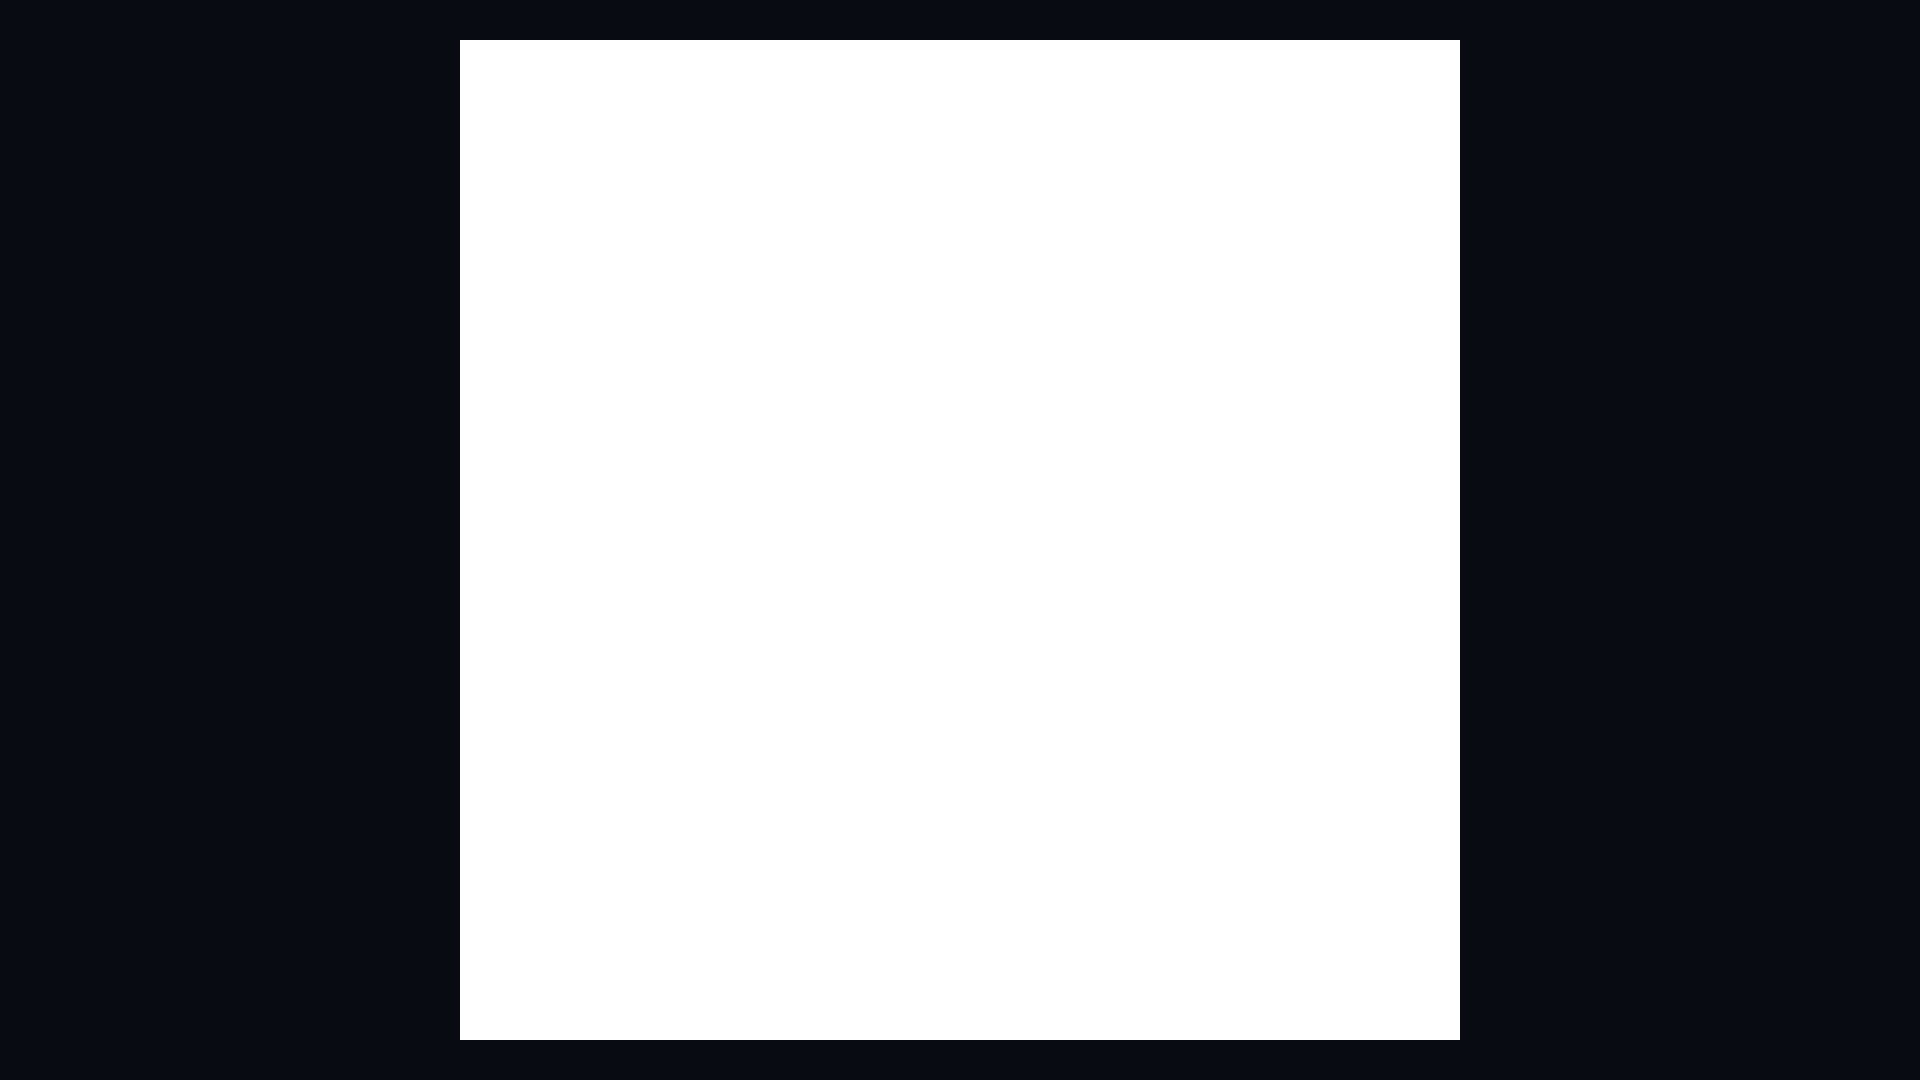
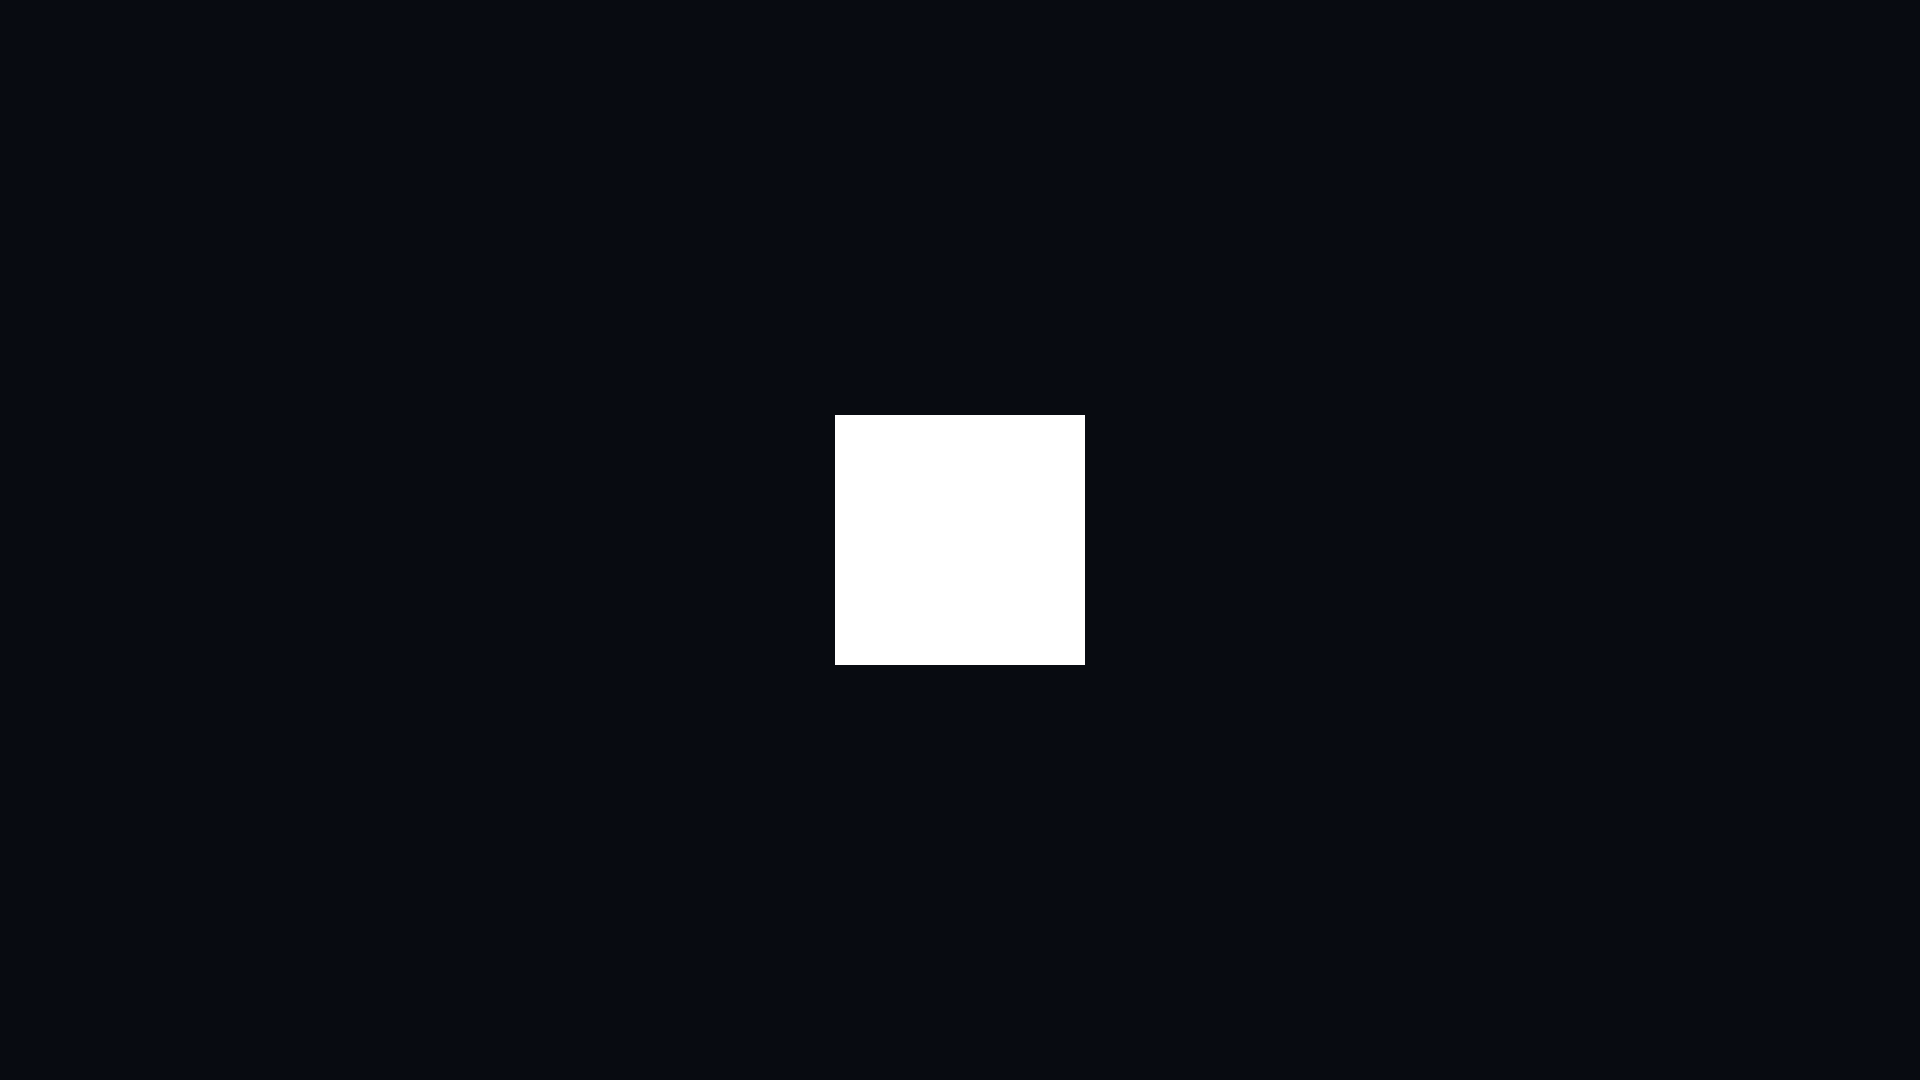
[WIP]

diff --git a/src/fortnite/click-hole.sample.js b/src/fortnite/click-hole.sample.js
@@ -4,8 +4,8 @@ const images = [
     url: 'https://raw.githubusercontent.com/Dixper/dixper-sdk-plugin-samples/main/src/games/assets/CIRCULO_00021.png',
   },
   {
-    name: 'transparent',
-    url: 'https://img.freepik.com/free-vector/abstract-banner-background-with-red-shapes_1361-3348.jpg',
+    name: 'bg',
+    url: 'https://raw.githubusercontent.com/Dixper/dixper-sdk-plugin-samples/main/src/fortnite/assets/images/bg-hole.png',
   },
 ];
 const sprites = [];
@@ -55,42 +55,35 @@ dixperPluginSample.onPixiLoad = () => {
 
 const init = () => {
   const backgroundTransparent = new PIXI.Sprite(
-    dixperPluginSample.pixi.resources.transparent.texture
+    dixperPluginSample.pixi.resources.bg.texture
   );
+  backgroundTransparent.width = 1920;
+  backgroundTransparent.height = 1080;
+  backgroundTransparent.x = DX_WIDTH / 2;
+  backgroundTransparent.y = DX_HEIGHT / 2;
+  backgroundTransparent.scale.x = 4;
+  backgroundTransparent.scale.y = 4;
+  backgroundTransparent.anchor.set(0.5);
+
+  //   const backgroundTransparentChild = new PIXI.Sprite(
+  //     dixperPluginSample.pixi.resources.bg.texture
+  //   );
+  //   backgroundTransparentChild.width = 1920;
+  //   backgroundTransparentChild.height = 1080;
+  //   backgroundTransparentChild.scale.x *= 0.5;
+  //   backgroundTransparentChild.scale.y *= 0.5;
+  //   backgroundTransparentChild.anchor.set(0.5);
+
+  const scope = new PIXI.Sprite(dixperPluginSample.pixi.resources.hole.texture);
+  scope.width = 1000;
+  scope.height = 1000;
+  scope.scale.x *= 0.25;
+  scope.scale.y *= 0.25;
+  scope.anchor.set(0.5);
 
   dixperPluginSample.pixi.stage.addChild(backgroundTransparent);
-
-  backgroundTransparent.width = dixperPluginSample.pixi.screen.width;
-  backgroundTransparent.height = dixperPluginSample.pixi.screen.height;
-
-  //   const scope = new PIXI.Sprite(dixperPluginSample.pixi.resources.hole.texture);
-  //   scope.width = 1000;
-  //   scope.height = 1000;
-  //   scope.x = DX_WIDTH / 2;
-  //   scope.y = DX_HEIGHT / 2;
-  //   scope.anchor.set(0.5);
-
-  //   dixperPluginSample.pixi.stage.addChild(scope);
-
-  const hole = new PIXI.Graphics()
-    .beginFill(0xff0000)
-    .drawRect(0, 0, 200, 200)
-    .endFill();
-
-  const texture = dixperPluginSample.pixi.renderer.generateTexture(
-    hole,
-    PIXI.SCALE_MODES.NEAREST,
-    1
-  );
-  const focus = new PIXI.Sprite(texture);
-
-  dixperPluginSample.pixi.stage.addChild(focus);
-
-  backgroundTransparent.mask = focus;
-
-  focus.position.x = DX_WIDTH / 2;
-  focus.position.y = DX_HEIGHT / 2;
-  focus.anchor.set(0.5);
+  backgroundTransparent.addChild(backgroundTransparentChild);
+  backgroundTransparent.addChild(scope);
 
   const onClick = (event) => {
     console.log(event);
@@ -100,12 +93,8 @@ const init = () => {
       increment = 1.25;
     }
 
-    focus.scale.x *= increment;
-    focus.scale.y *= increment;
-    // scope.scale.x *= increment;
-    // scope.scale.y *= increment;
-
-    backgroundTransparent.mask = focus;
+    backgroundTransparent.scale.x *= increment;
+    backgroundTransparent.scale.y *= increment;
   };
 
   onClickSub = dixperPluginSample.onMouseDown$.subscribe(onClick);
